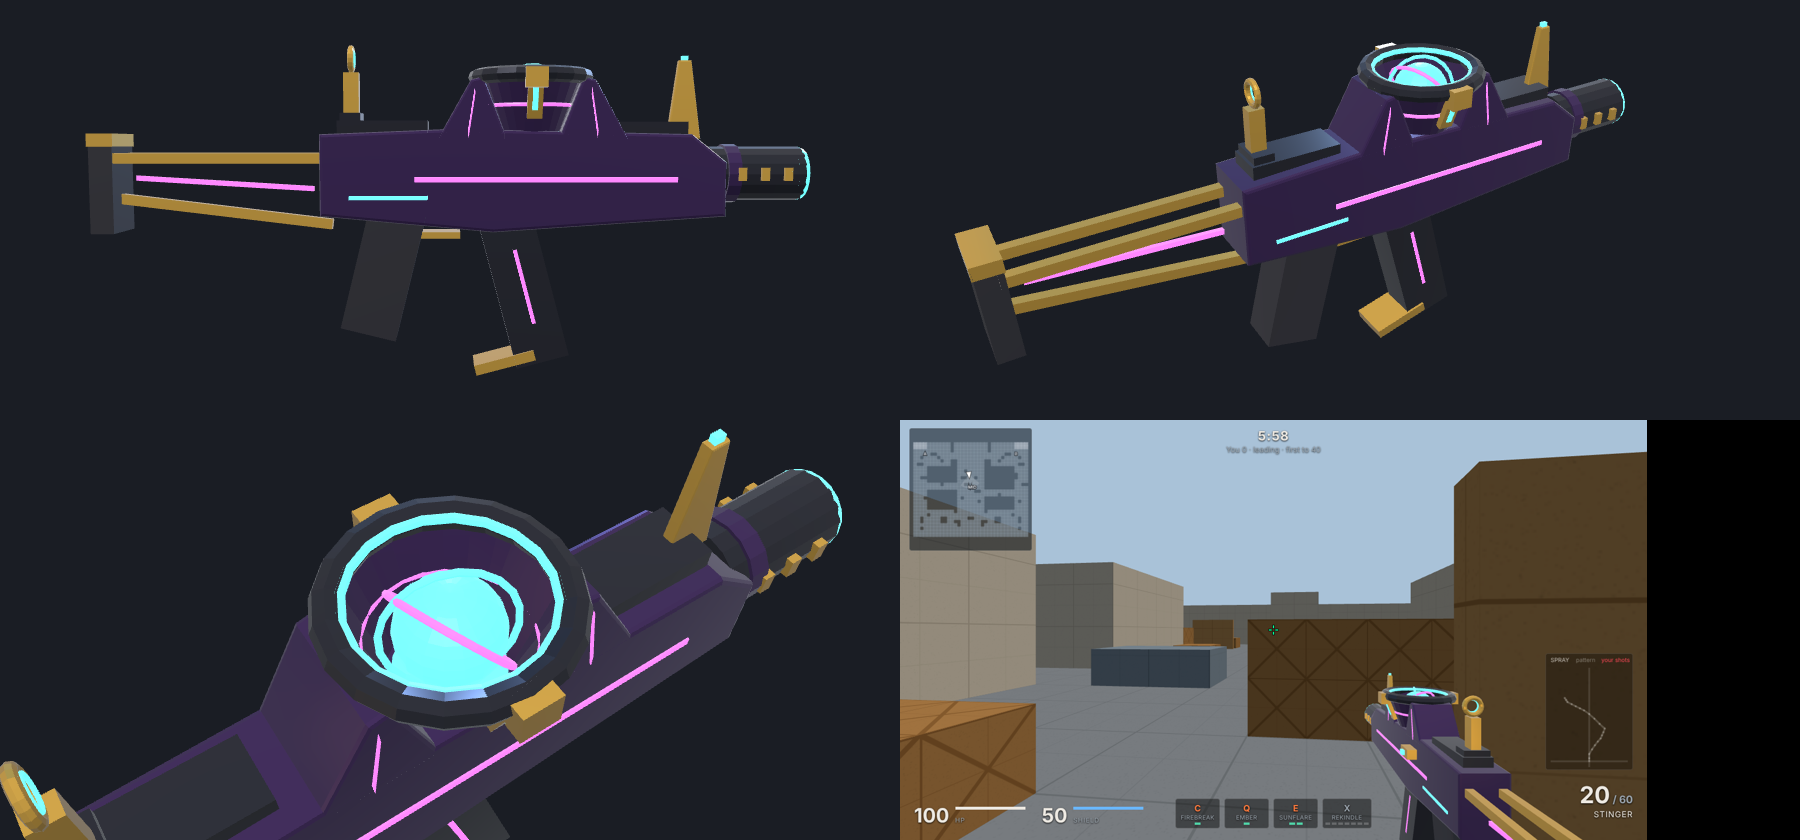
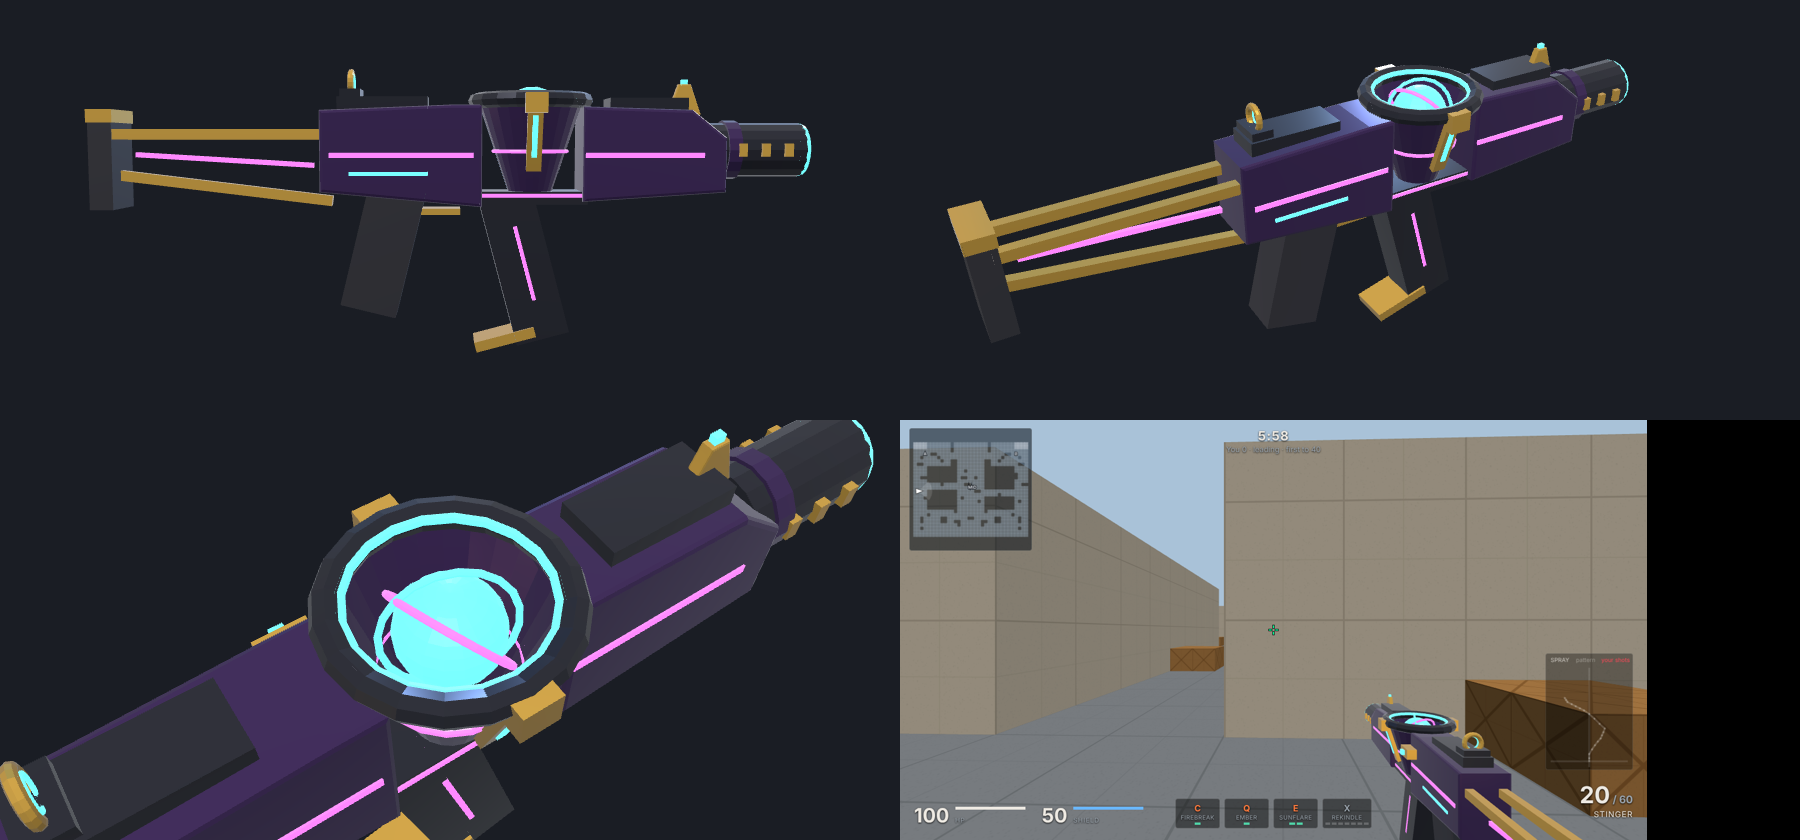
Orbital: set the spire cone into a gap in the middle of the receiver
The receiver is split in two and the cone fills the gap, standing on its point at
the bottom of the gun on a slim bar and flaring to the ring just over the top.

Claude-Session: https://claude.ai/code/session_012SZNVztSmqGKqjP711jP12

diff --git a/js/models.js b/js/models.js
@@ -213,26 +213,21 @@ function wrap(k, n, y0, z0, y1, z1, w, d, slot, tilt = 0) {
   }
 }
 
-// Orbital's reactor spire, built into the gun at z: a hollow cone that rises out of the receiver (top surface
-// y0, width w) and flares to a wide reactor ring, open at the top and lit inside. Its lower half is sunk into
-// the receiver, and the receiver itself sweeps up in front of and behind it to meet the ring, so the cone is
-// part of the gun's body. Gold fins run up its exposed sides. The orb (part `orb`) sits in the mouth with its
-// top just showing over the rim: the inspect floats it out and the reload pops it and seats a fresh one.
-// `s` scales the whole spire. Returns the height of the top of the ring.
-function orbSpire(k, z, y0, w, s = 1) {
-  const yb = y0 - 0.022 * s, top = y0 + 0.054 * s, rb = 0.02 * s, rt = 0.05 * s;
-  const r = (y) => rb + ((rt - rb) * (y - yb)) / (top - yb), slope = Math.atan((rb - rt) / (top - yb));
+// Orbital's reactor spire, set into the gun at z: the middle of the receiver is cut away and a hollow cone fills
+// the gap, standing on its point at the bottom of the gun (yb) on a slim bar that ties the two halves together
+// and flaring to a wide reactor ring at `top`, just over the top of the gun. It is open at the top and lit from
+// the floor, with gold fins up its sides. The orb (part `orb`) sits in the mouth with its top just showing over
+// the rim: the inspect floats it out and the reload pops it and seats a fresh one. The gap is 2 * 0.05 * s
+// long. `s` scales the cone's width. Returns the height of the top of the ring.
+function orbSpire(k, z, yb, top, w, s = 1) {
+  const rb = 0.018 * s, rt = 0.05 * s, slope = Math.atan((rb - rt) / (top - yb));
+  const r = (y) => rb + ((rt - rb) * (y - yb)) / (top - yb);
   k.cyl(rt, top - yb, 'tubeBody', 0, (top + yb) / 2, z, 24, 0, 0, 0, rb, true);
-  k.cyl(r(y0) * 0.95, 0.003, 'glow', 0, y0 + 0.004, z, 24, 0);
-  // The receiver sweeping up into the ring, front and back, its inner edge following the cone.
-  const L = 0.085 * s, ys = [y0, y0 + 0.018 * s, y0 + 0.036 * s, top - 0.004 * s];
-  for (const d of [-1, 1]) {
-    const pts = [[z + d * L, y0 - 0.002], [z + d * (rt + 0.006 * s), top - 0.006 * s], ...ys.slice().reverse().map(y => [z + d * r(y) * 0.985, y]), [z + d * r(y0) * 0.985, y0 - 0.002]];
-    k.prof(pts, w, 'body', 0, 0.002);
-    k.prof([[z + d * L * 0.7, y0 + 0.003], [z + d * (rt + 0.004 * s), top - 0.012 * s], [z + d * (rt + 0.004 * s), top - 0.017 * s], [z + d * L * 0.7, y0 - 0.002]], w + 0.002, 'accent', 0, 0.0005);
-  }
-  k.tor((r(y0 + 0.027 * s) + 0.0012), 0.0018 * s, 'accent', 0, y0 + 0.027 * s, z, PI / 2);
-  const fl = (top - y0) * 0.75, fy = top - fl / 2, rm = r(fy) + 0.0045 * s;
+  k.cyl(rb * 0.95, 0.003, 'glow', 0, yb + 0.004, z, 16, 0);
+  k.box(w * 0.7, 0.01, 2 * rt + 0.004, 'trim', 0, yb + 0.003, z);
+  k.box(w * 0.7 + 0.002, 0.003, 2 * rt + 0.004, 'accent', 0, yb + 0.005, z);
+  k.tor(r((yb + top) / 2) + 0.0012, 0.0018 * s, 'accent', 0, (yb + top) / 2, z, PI / 2);
+  const fl = (top - yb) * 0.7, fy = top - fl / 2, rm = r(fy) + 0.0045 * s;
   for (const a of [0, PI]) {
     k.box(0.006 * s, fl, 0.014 * s, 'metal', Math.cos(a) * rm, fy, z, 0, -a, slope);
     k.box(0.0065 * s, fl * 0.6, 0.005 * s, 'glow', Math.cos(a) * (rm + 0.001), fy, z, 0, -a, slope);
@@ -248,7 +243,7 @@ function orbSpire(k, z, y0, w, s = 1) {
   k.part(null);
   return top + 0.0075 * s;
 }
-// Orbital sights, raised so the line of sight clears the spire: a gold ring to look through on a post at the
+// Orbital sights, raised so the line of sight clears the spire's ring: a gold ring to look through on a post at the
 // back (zr, standing on yr) and a post with a lit tip at the front (zf, on yf), both at height sy.
 function orbSights(k, zf, yf, zr, yr, sy) {
   k.box(0.01, sy - 0.0105 - yr, 0.012, 'metal', 0, (sy - 0.0105 + yr) / 2, zr);
@@ -726,18 +721,15 @@ const DESIGNS = {
   },
 
   // ---- Orbital collection (model skins, see skins.js): violet enamel, gunmetal, gold, a live orb ----
-  // Each gun carries the reactor spire (orbSpire) on top, so they all inspect and reload the same way
-  // (`orb` in reloadanim.js), and raised sights (orbSights) to aim over it.
+  // Each gun has the reactor spire (orbSpire) set into the middle of its receiver, so they all inspect and reload
+  // the same way (`orb` in reloadanim.js), and raised sights (orbSights) to aim over it.
   // Vandal: a heavier receiver split around the spire, a chunky vented handguard and a glowing muzzle shroud.
   vandalOrb(k) {
-    // Receiver, rear and front halves with the reactor bay between them (z -0.115 to -0.185), the spire on top.
-    k.prof([[0.06, -0.026], [0.06, 0.048], [-0.02, 0.054], [-0.115, 0.054], [-0.115, -0.026]], 0.058, 'body');
-    k.prof([[-0.185, -0.026], [-0.185, 0.054], [-0.3, 0.05], [-0.32, 0.028], [-0.32, -0.026]], 0.058, 'body');
-    k.box(0.058, 0.08, 0.07, 'trim', 0, 0.014, -0.15);
+    // Receiver, rear and front halves with the reactor spire set in the gap between them (z -0.1 to -0.2).
+    k.prof([[0.06, -0.026], [0.06, 0.048], [-0.02, 0.054], [-0.1, 0.054], [-0.1, -0.026]], 0.058, 'body');
+    k.prof([[-0.2, -0.026], [-0.2, 0.054], [-0.3, 0.05], [-0.32, 0.028], [-0.32, -0.026]], 0.058, 'body');
     k.box(0.06, 0.004, 0.16, 'accent', 0, 0.002, -0.02);
-    k.box(0.06, 0.004, 0.12, 'accent', 0, 0.002, -0.25);
-    k.box(0.06, 0.004, 0.07, 'accent', 0, 0.002, -0.15);
-    for (const x of [-0.0295, 0.0295]) k.box(0.002, 0.03, 0.05, 'metal', x, 0.03, -0.15);
+    k.box(0.06, 0.004, 0.1, 'accent', 0, 0.002, -0.255);
     // Top spine either side of the spire, gold clamps on it.
     k.box(0.034, 0.012, 0.105, 'trim', 0, 0.06, -0.0075);
     k.box(0.034, 0.012, 0.07, 'trim', 0, 0.06, -0.275);
@@ -745,7 +737,7 @@ const DESIGNS = {
       k.box(0.008, 0.03, 0.014, 'metal', x, 0.074, z);
       k.box(0.008, 0.008, 0.024, 'metal', x, 0.09, z - 0.005);
     }
-    const top = orbSpire(k, -0.15, 0.054, 0.058);
+    const top = orbSpire(k, -0.15, -0.024, 0.064, 0.058);
     // Handguard: chunky shroud with neon vents and a gold name plate on each side.
     k.prof([[-0.32, -0.026], [-0.32, 0.05], [-0.49, 0.04], [-0.5, 0.018], [-0.49, -0.014]], 0.054, 'trim');
     k.teeth(5, -0.34, -0.46, 0.056, 0.018, 0.008, 'accent', 0, 0.026);
@@ -778,12 +770,14 @@ const DESIGNS = {
   // Stinger: a short, sharp SMG: a slim receiver with the spire just ahead of the grip, a stubby shroud with a
   // lit face and gold vents, and a skeleton stock of gold rails around a neon strip.
   stingerOrb(k) {
-    k.prof([[0.08, -0.008], [0.08, 0.05], [-0.02, 0.054], [-0.2, 0.05], [-0.225, 0.03], [-0.225, -0.008], [-0.05, -0.02]], 0.05, 'body');
-    k.box(0.052, 0.004, 0.2, 'accent', 0, 0.018, -0.09);
+    k.prof([[0.08, -0.008], [0.08, 0.05], [-0.02, 0.054], [-0.039, 0.054], [-0.039, -0.019]], 0.05, 'body');
+    k.prof([[-0.121, -0.015], [-0.121, 0.0525], [-0.2, 0.05], [-0.225, 0.03], [-0.225, -0.008]], 0.05, 'body');
+    k.box(0.052, 0.004, 0.11, 'accent', 0, 0.018, 0.02);
+    k.box(0.052, 0.004, 0.09, 'accent', 0, 0.018, -0.165);
     k.box(0.052, 0.003, 0.06, 'glow', 0, 0.004, 0.03);
     k.box(0.03, 0.01, 0.07, 'trim', 0, 0.058, 0.035);
     k.box(0.03, 0.01, 0.06, 'trim', 0, 0.057, -0.17);
-    const top = orbSpire(k, -0.08, 0.0525, 0.05, 0.82);
+    const top = orbSpire(k, -0.08, -0.018, 0.06, 0.05, 0.82);
     // Shroud: lit face ring, gold vents down each side.
     k.cyl(0.021, 0.07, 'trim', 0, 0.022, -0.255, 16);
     k.cyl(0.023, 0.01, 'body', 0, 0.022, -0.235, 16);
@@ -811,12 +805,15 @@ const DESIGNS = {
   // Phantom: a long, smooth receiver with the spire in its middle, a twin accent line down each side and a long
   // suppressor banded in gold with neon rings, lit at the face.
   phantomOrb(k) {
-    k.prof([[0.05, -0.024], [0.05, 0.05], [-0.06, 0.058], [-0.33, 0.05], [-0.35, 0.012], [-0.35, -0.024]], 0.056, 'body');
-    k.box(0.058, 0.003, 0.3, 'accent', 0, 0.01, -0.16);
-    k.box(0.058, 0.003, 0.26, 'glow', 0, -0.004, -0.17);
+    k.prof([[0.05, -0.024], [0.05, 0.05], [-0.06, 0.058], [-0.12, 0.0562], [-0.12, -0.024]], 0.056, 'body');
+    k.prof([[-0.22, -0.024], [-0.22, 0.0533], [-0.33, 0.05], [-0.35, 0.012], [-0.35, -0.024]], 0.056, 'body');
+    k.box(0.058, 0.003, 0.11, 'accent', 0, 0.01, -0.065);
+    k.box(0.058, 0.003, 0.09, 'accent', 0, 0.01, -0.265);
+    k.box(0.058, 0.003, 0.08, 'glow', 0, -0.004, -0.08);
+    k.box(0.058, 0.003, 0.08, 'glow', 0, -0.004, -0.26);
     k.box(0.036, 0.01, 0.07, 'trim', 0, 0.062, -0.07);
     k.box(0.036, 0.01, 0.08, 'trim', 0, 0.058, -0.28);
-    const top = orbSpire(k, -0.17, 0.0545, 0.056);
+    const top = orbSpire(k, -0.17, -0.022, 0.066, 0.056);
     // Suppressor: gold bands, neon rings between them, lit face.
     k.cyl(0.022, 0.22, 'trim', 0, 0.018, -0.46, 18);
     for (const z of [-0.37, -0.45, -0.53]) k.cyl(0.024, 0.012, 'metal', 0, 0.018, z, 18);
@@ -844,13 +841,14 @@ const DESIGNS = {
   // Bulldog: a blocky, heavy receiver with a bigger spire, a vented handguard and a squared gold muzzle brake
   // with neon slots.
   bulldogOrb(k) {
-    k.prof([[0.04, -0.026], [0.04, 0.054], [-0.3, 0.054], [-0.32, 0.032], [-0.32, -0.026]], 0.06, 'body');
-    k.box(0.062, 0.004, 0.3, 'accent', 0, 0.02, -0.14);
-    k.box(0.062, 0.004, 0.1, 'glow', 0, -0.006, -0.07);
+    k.prof([[0.04, -0.026], [0.04, 0.054], [-0.086, 0.054], [-0.086, -0.026]], 0.06, 'body');
+    k.prof([[-0.194, -0.026], [-0.194, 0.054], [-0.3, 0.054], [-0.32, 0.032], [-0.32, -0.026]], 0.06, 'body');
+    k.box(0.062, 0.004, 0.096, 'accent', 0, 0.02, -0.038);
+    k.box(0.062, 0.004, 0.096, 'accent', 0, 0.02, -0.242);
+    k.box(0.062, 0.004, 0.066, 'glow', 0, -0.006, -0.045);
     k.box(0.04, 0.012, 0.08, 'trim', 0, 0.06, 0.0);
     k.box(0.04, 0.012, 0.08, 'trim', 0, 0.06, -0.265);
-    for (const x of [-0.031, 0.031]) k.box(0.002, 0.034, 0.06, 'metal', x, 0.026, -0.14);
-    const top = orbSpire(k, -0.14, 0.054, 0.06, 1.08);
+    const top = orbSpire(k, -0.14, -0.024, 0.066, 0.06, 1.08);
     // Handguard: gunmetal with neon vent teeth; barrel and the squared muzzle brake.
     k.prof([[-0.32, -0.022], [-0.32, 0.048], [-0.46, 0.042], [-0.46, -0.014]], 0.054, 'trim');
     k.teeth(5, -0.34, -0.44, 0.056, 0.012, 0.01, 'accent', 0, 0.006);
